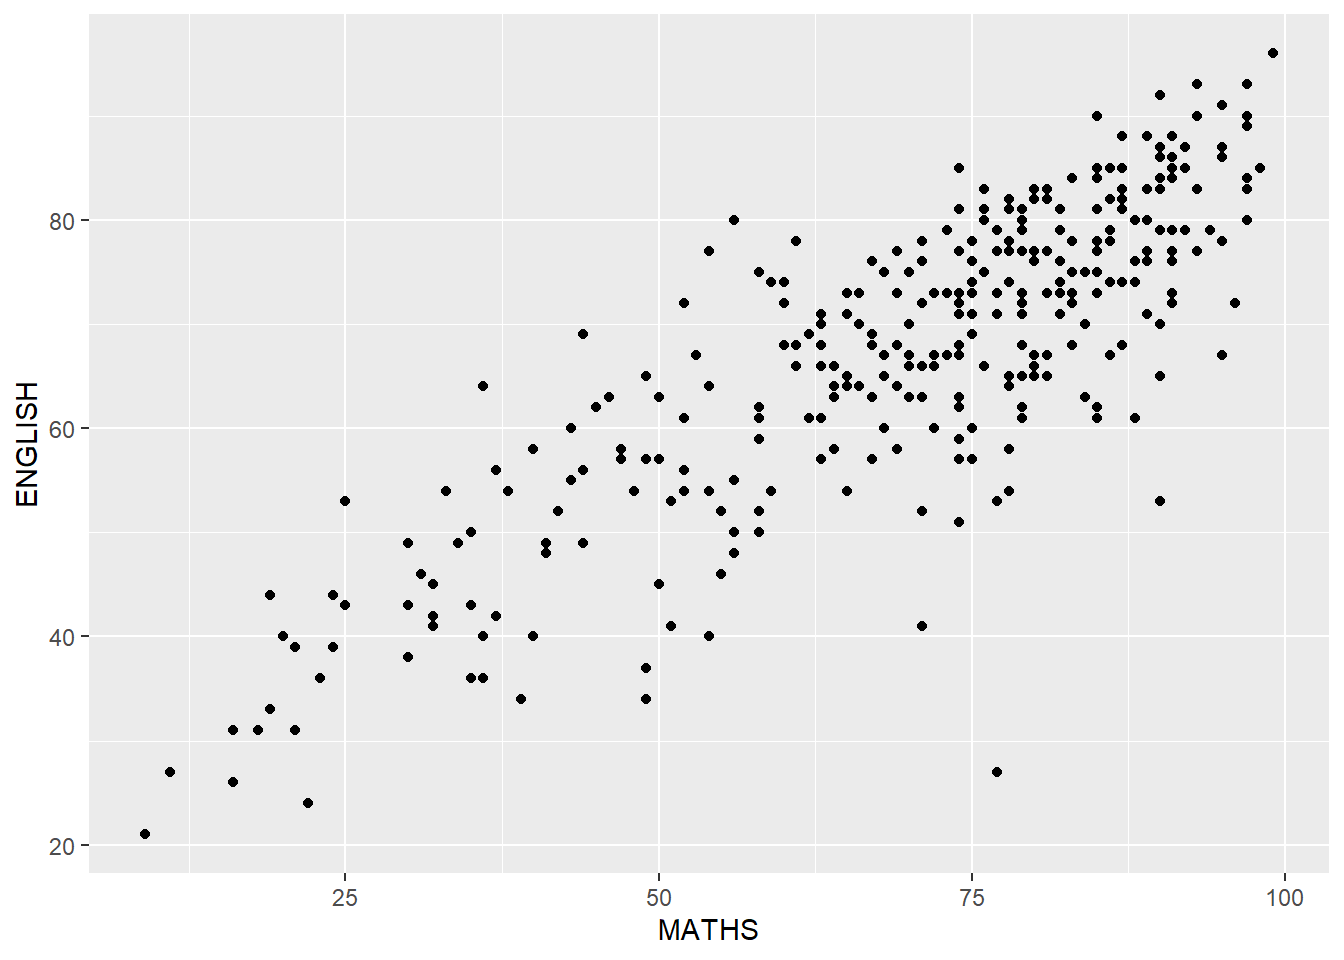
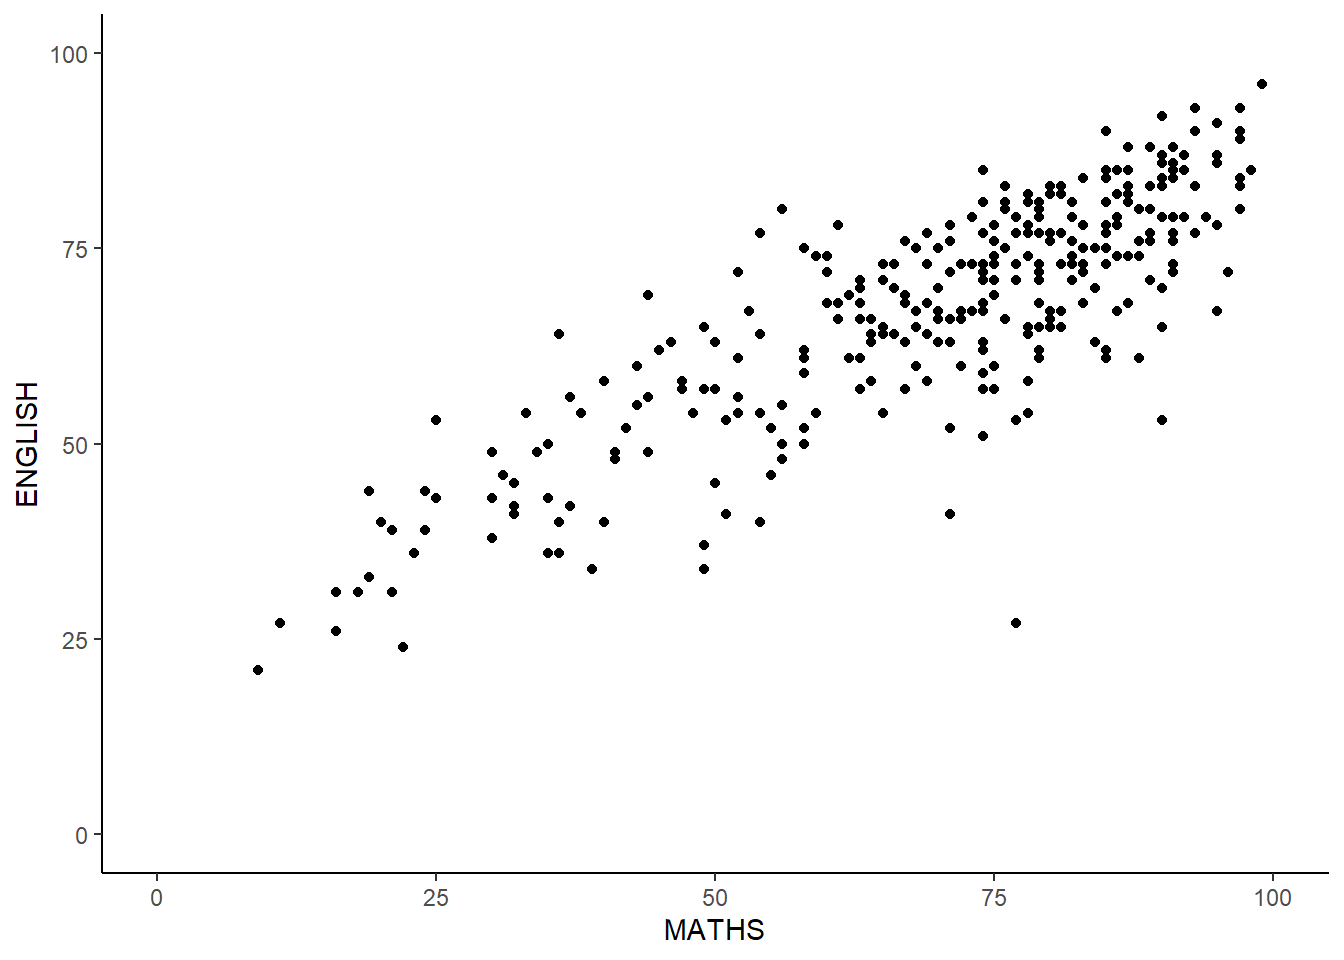
A

diff --git a/_site/Hands_on_Ex1/Hands_on_Ex1.html b/_site/Hands_on_Ex1/Hands_on_Ex1.html
@@ -205,6 +205,7 @@ code span.wa { color: #60a0b0; font-weight: bold; font-style: italic; } /* Warni
   </ul></li>
   <li><a href="#scattered-plotting" id="toc-scattered-plotting" class="nav-link" data-scroll-target="#scattered-plotting">6 Scattered plotting</a></li>
   <li><a href="#faceting" id="toc-faceting" class="nav-link" data-scroll-target="#faceting">7 Faceting</a></li>
+  <li><a href="#bar-charts" id="toc-bar-charts" class="nav-link" data-scroll-target="#bar-charts">8 Bar charts</a></li>
   </ul></li>
   </ul>
 </nav>
@@ -421,7 +422,10 @@ code span.wa { color: #60a0b0; font-weight: bold; font-style: italic; } /* Warni
 <div class="sourceCode cell-code" id="cb14"><pre class="sourceCode r code-with-copy"><code class="sourceCode r"><span id="cb14-1"><a href="#cb14-1" aria-hidden="true" tabindex="-1"></a><span class="fu">ggplot</span>(<span class="at">data=</span>exam_data, </span>
 <span id="cb14-2"><a href="#cb14-2" aria-hidden="true" tabindex="-1"></a>       <span class="fu">aes</span>(<span class="at">x=</span> MATHS, </span>
 <span id="cb14-3"><a href="#cb14-3" aria-hidden="true" tabindex="-1"></a>           <span class="at">y=</span>ENGLISH)) <span class="sc">+</span></span>
-<span id="cb14-4"><a href="#cb14-4" aria-hidden="true" tabindex="-1"></a>  <span class="fu">geom_point</span>()            </span></code><button title="Copy to Clipboard" class="code-copy-button"><i class="bi"></i></button></pre></div>
+<span id="cb14-4"><a href="#cb14-4" aria-hidden="true" tabindex="-1"></a>  <span class="fu">geom_point</span>() <span class="sc">+</span></span>
+<span id="cb14-5"><a href="#cb14-5" aria-hidden="true" tabindex="-1"></a>  <span class="fu">coord_cartesian</span>(<span class="at">xlim =</span> <span class="fu">c</span>(<span class="dv">0</span>,<span class="dv">100</span>),</span>
+<span id="cb14-6"><a href="#cb14-6" aria-hidden="true" tabindex="-1"></a>                  <span class="at">ylim =</span> <span class="fu">c</span>(<span class="dv">0</span>,<span class="dv">100</span>)) <span class="sc">+</span></span>
+<span id="cb14-7"><a href="#cb14-7" aria-hidden="true" tabindex="-1"></a>  <span class="fu">theme_classic</span>()</span></code><button title="Copy to Clipboard" class="code-copy-button"><i class="bi"></i></button></pre></div>
 <div class="cell-output-display">
 <p><img src="Hands_on_Ex1_files/figure-html/unnamed-chunk-13-1.png" class="img-fluid" width="672"></p>
 </div>
@@ -431,7 +435,10 @@ code span.wa { color: #60a0b0; font-weight: bold; font-style: italic; } /* Warni
 <div class="sourceCode cell-code" id="cb15"><pre class="sourceCode r code-with-copy"><code class="sourceCode r"><span id="cb15-1"><a href="#cb15-1" aria-hidden="true" tabindex="-1"></a><span class="fu">ggplot</span>(<span class="at">data=</span>exam_data, </span>
 <span id="cb15-2"><a href="#cb15-2" aria-hidden="true" tabindex="-1"></a>       <span class="fu">aes</span>(<span class="at">x=</span> MATHS, <span class="at">y=</span>ENGLISH)) <span class="sc">+</span></span>
 <span id="cb15-3"><a href="#cb15-3" aria-hidden="true" tabindex="-1"></a>  <span class="fu">geom_point</span>() <span class="sc">+</span></span>
-<span id="cb15-4"><a href="#cb15-4" aria-hidden="true" tabindex="-1"></a>  <span class="fu">geom_smooth</span>(<span class="at">size=</span><span class="fl">0.5</span>)</span></code><button title="Copy to Clipboard" class="code-copy-button"><i class="bi"></i></button></pre></div>
+<span id="cb15-4"><a href="#cb15-4" aria-hidden="true" tabindex="-1"></a>  <span class="fu">geom_smooth</span>(<span class="at">size=</span><span class="fl">0.5</span>) <span class="sc">+</span></span>
+<span id="cb15-5"><a href="#cb15-5" aria-hidden="true" tabindex="-1"></a>  <span class="fu">coord_cartesian</span>(<span class="at">xlim =</span> <span class="fu">c</span>(<span class="dv">0</span>,<span class="dv">100</span>),</span>
+<span id="cb15-6"><a href="#cb15-6" aria-hidden="true" tabindex="-1"></a>                  <span class="at">ylim =</span> <span class="fu">c</span>(<span class="dv">0</span>,<span class="dv">100</span>)) <span class="sc">+</span></span>
+<span id="cb15-7"><a href="#cb15-7" aria-hidden="true" tabindex="-1"></a>  <span class="fu">theme_dark</span>()</span></code><button title="Copy to Clipboard" class="code-copy-button"><i class="bi"></i></button></pre></div>
 <div class="cell-output-display">
 <p><img src="Hands_on_Ex1_files/figure-html/unnamed-chunk-14-1.png" class="img-fluid" width="672"></p>
 </div>
@@ -444,7 +451,10 @@ code span.wa { color: #60a0b0; font-weight: bold; font-style: italic; } /* Warni
 <span id="cb16-3"><a href="#cb16-3" aria-hidden="true" tabindex="-1"></a>           <span class="at">y=</span>ENGLISH)) <span class="sc">+</span></span>
 <span id="cb16-4"><a href="#cb16-4" aria-hidden="true" tabindex="-1"></a>  <span class="fu">geom_point</span>() <span class="sc">+</span></span>
 <span id="cb16-5"><a href="#cb16-5" aria-hidden="true" tabindex="-1"></a>  <span class="fu">geom_smooth</span>(<span class="at">method=</span>lm, </span>
-<span id="cb16-6"><a href="#cb16-6" aria-hidden="true" tabindex="-1"></a>              <span class="at">size=</span><span class="fl">0.5</span>)</span></code><button title="Copy to Clipboard" class="code-copy-button"><i class="bi"></i></button></pre></div>
+<span id="cb16-6"><a href="#cb16-6" aria-hidden="true" tabindex="-1"></a>              <span class="at">size=</span><span class="fl">0.5</span>) <span class="sc">+</span></span>
+<span id="cb16-7"><a href="#cb16-7" aria-hidden="true" tabindex="-1"></a>  <span class="fu">coord_cartesian</span>(<span class="at">xlim =</span> <span class="fu">c</span>(<span class="dv">0</span>,<span class="dv">100</span>),</span>
+<span id="cb16-8"><a href="#cb16-8" aria-hidden="true" tabindex="-1"></a>                  <span class="at">ylim =</span> <span class="fu">c</span>(<span class="dv">0</span>,<span class="dv">100</span>)) <span class="sc">+</span></span>
+<span id="cb16-9"><a href="#cb16-9" aria-hidden="true" tabindex="-1"></a>  <span class="fu">theme_minimal</span>()</span></code><button title="Copy to Clipboard" class="code-copy-button"><i class="bi"></i></button></pre></div>
 <div class="cell-output-display">
 <p><img src="Hands_on_Ex1_files/figure-html/unnamed-chunk-15-1.png" class="img-fluid" width="672"></p>
 </div>
@@ -504,9 +514,44 @@ code span.wa { color: #60a0b0; font-weight: bold; font-style: italic; } /* Warni
 <p><img src="Hands_on_Ex1_files/figure-html/unnamed-chunk-19-1.png" class="img-fluid" width="672"></p>
 </div>
 </div>
-
-
 </section>
+</section>
+<section id="bar-charts" class="level2">
+<h2 class="anchored" data-anchor-id="bar-charts">8 Bar charts</h2>
+<p>Now let us plot bar charts using functions in <em>ggplot2</em> package.</p>
+<div class="cell">
+<div class="sourceCode cell-code" id="cb21"><pre class="sourceCode r code-with-copy"><code class="sourceCode r"><span id="cb21-1"><a href="#cb21-1" aria-hidden="true" tabindex="-1"></a><span class="fu">ggplot</span>(<span class="at">data =</span> exam_data,</span>
+<span id="cb21-2"><a href="#cb21-2" aria-hidden="true" tabindex="-1"></a>       <span class="fu">aes</span>(<span class="at">x =</span> RACE)) <span class="sc">+</span></span>
+<span id="cb21-3"><a href="#cb21-3" aria-hidden="true" tabindex="-1"></a>  <span class="fu">geom_bar</span>() <span class="sc">+</span></span>
+<span id="cb21-4"><a href="#cb21-4" aria-hidden="true" tabindex="-1"></a>  <span class="fu">coord_flip</span>() <span class="sc">+</span></span>
+<span id="cb21-5"><a href="#cb21-5" aria-hidden="true" tabindex="-1"></a>  <span class="fu">theme</span>(<span class="at">panel.background =</span> <span class="fu">element_rect</span>(<span class="at">fill =</span> <span class="st">"light blue"</span>, <span class="at">colour =</span> <span class="st">"white"</span>))</span></code><button title="Copy to Clipboard" class="code-copy-button"><i class="bi"></i></button></pre></div>
+<div class="cell-output-display">
+<p><img src="Hands_on_Ex1_files/figure-html/unnamed-chunk-20-1.png" class="img-fluid" width="672"></p>
+</div>
+</div>
+<div class="cell">
+<div class="sourceCode cell-code" id="cb22"><pre class="sourceCode r code-with-copy"><code class="sourceCode r"><span id="cb22-1"><a href="#cb22-1" aria-hidden="true" tabindex="-1"></a><span class="fu">ggplot</span>(<span class="at">data =</span> exam_data,</span>
+<span id="cb22-2"><a href="#cb22-2" aria-hidden="true" tabindex="-1"></a>       <span class="fu">aes</span>(<span class="at">x =</span> <span class="fu">fct_infreq</span>(RACE))) <span class="sc">+</span></span>
+<span id="cb22-3"><a href="#cb22-3" aria-hidden="true" tabindex="-1"></a>  <span class="fu">geom_bar</span>() <span class="sc">+</span></span>
+<span id="cb22-4"><a href="#cb22-4" aria-hidden="true" tabindex="-1"></a>  <span class="fu">xlab</span>(<span class="st">"Race"</span>) <span class="sc">+</span></span>
+<span id="cb22-5"><a href="#cb22-5" aria-hidden="true" tabindex="-1"></a>  <span class="fu">ylab</span>(<span class="st">"No. of Pupils"</span>) <span class="sc">+</span></span>
+<span id="cb22-6"><a href="#cb22-6" aria-hidden="true" tabindex="-1"></a>  <span class="fu">geom_text</span>(<span class="at">stat =</span> <span class="st">"count"</span>, <span class="fu">aes</span>(<span class="at">label =</span> ..count..),<span class="at">vjust =</span> <span class="sc">-</span><span class="dv">1</span>) <span class="sc">+</span></span>
+<span id="cb22-7"><a href="#cb22-7" aria-hidden="true" tabindex="-1"></a>  <span class="fu">coord_cartesian</span>(<span class="at">ylim =</span> <span class="fu">c</span>(<span class="dv">0</span>,<span class="dv">210</span>))</span></code><button title="Copy to Clipboard" class="code-copy-button"><i class="bi"></i></button></pre></div>
+<div class="cell-output-display">
+<p><img src="Hands_on_Ex1_files/figure-html/unnamed-chunk-21-1.png" class="img-fluid" width="672"></p>
+</div>
+</div>
+<div class="cell">
+<div class="sourceCode cell-code" id="cb23"><pre class="sourceCode r code-with-copy"><code class="sourceCode r"><span id="cb23-1"><a href="#cb23-1" aria-hidden="true" tabindex="-1"></a><span class="fu">ggplot</span>(<span class="at">data =</span> exam_data,</span>
+<span id="cb23-2"><a href="#cb23-2" aria-hidden="true" tabindex="-1"></a>       <span class="fu">aes</span>(<span class="at">x =</span> ENGLISH)) <span class="sc">+</span></span>
+<span id="cb23-3"><a href="#cb23-3" aria-hidden="true" tabindex="-1"></a>  <span class="fu">geom_bar</span>() <span class="sc">+</span></span>
+<span id="cb23-4"><a href="#cb23-4" aria-hidden="true" tabindex="-1"></a>  <span class="fu">facet_wrap</span>(<span class="sc">~</span>GENDER)</span></code><button title="Copy to Clipboard" class="code-copy-button"><i class="bi"></i></button></pre></div>
+<div class="cell-output-display">
+<p><img src="Hands_on_Ex1_files/figure-html/unnamed-chunk-22-1.png" class="img-fluid" width="672"></p>
+</div>
+</div>
+
+
 </section>
 </section>
 
